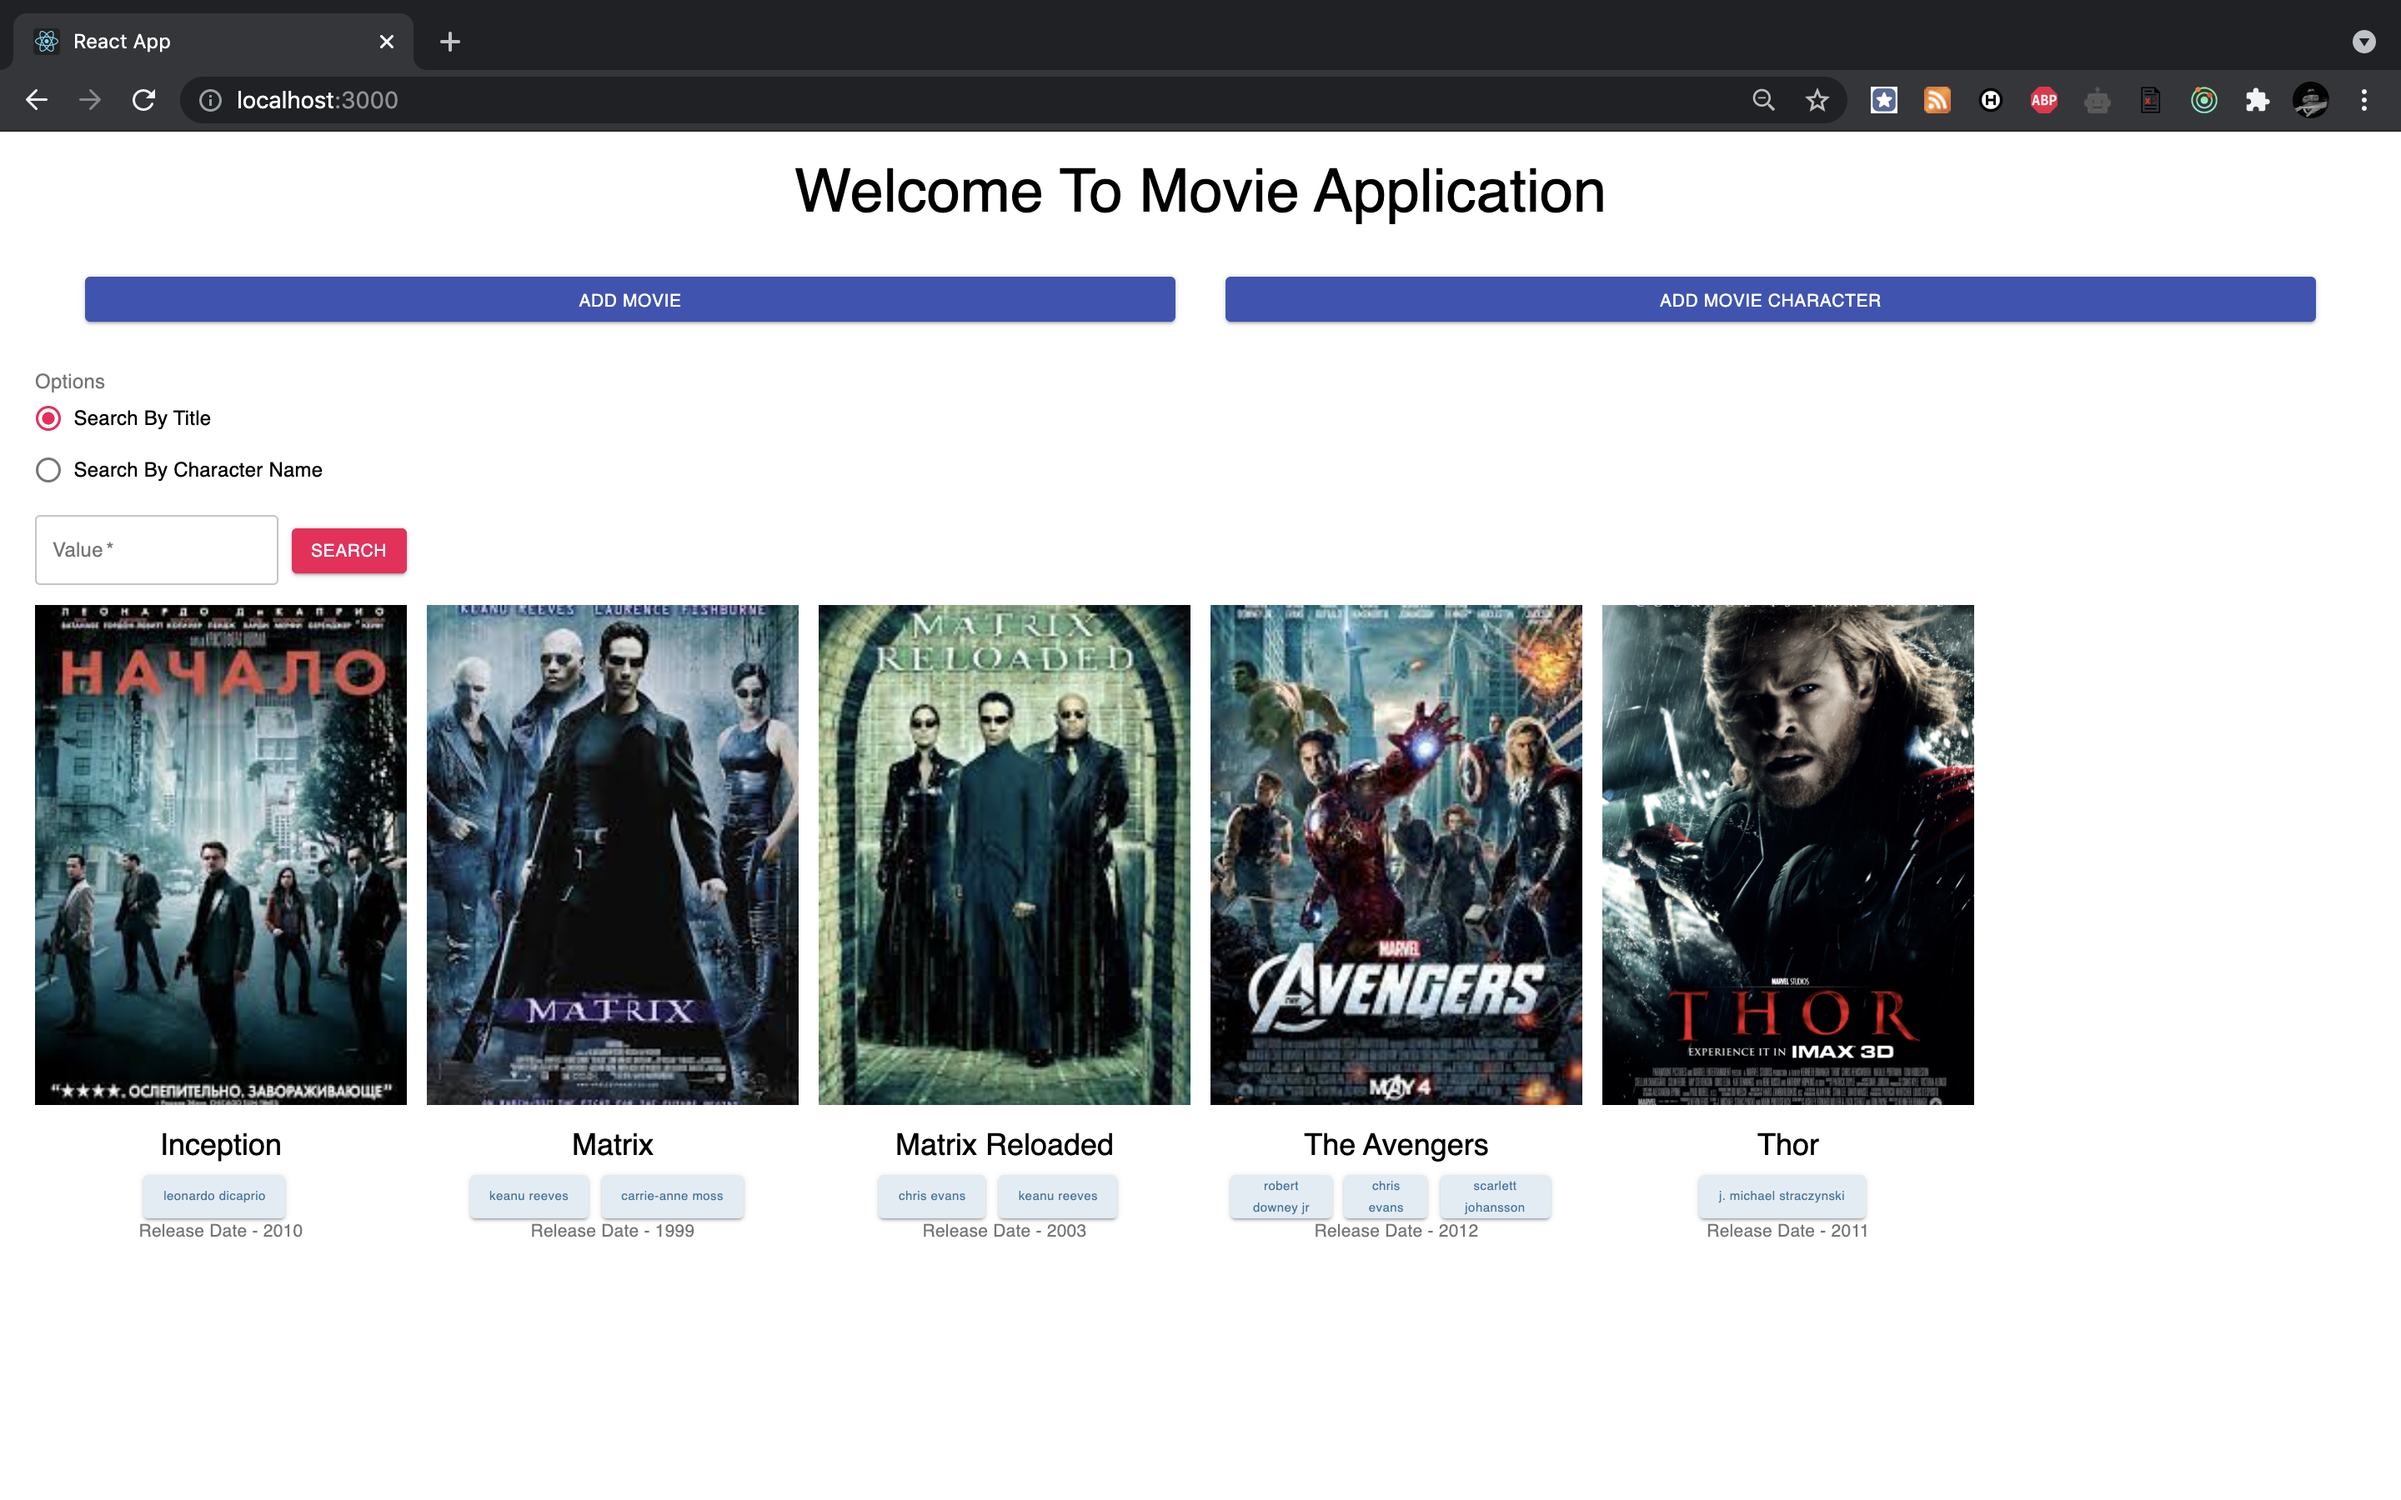
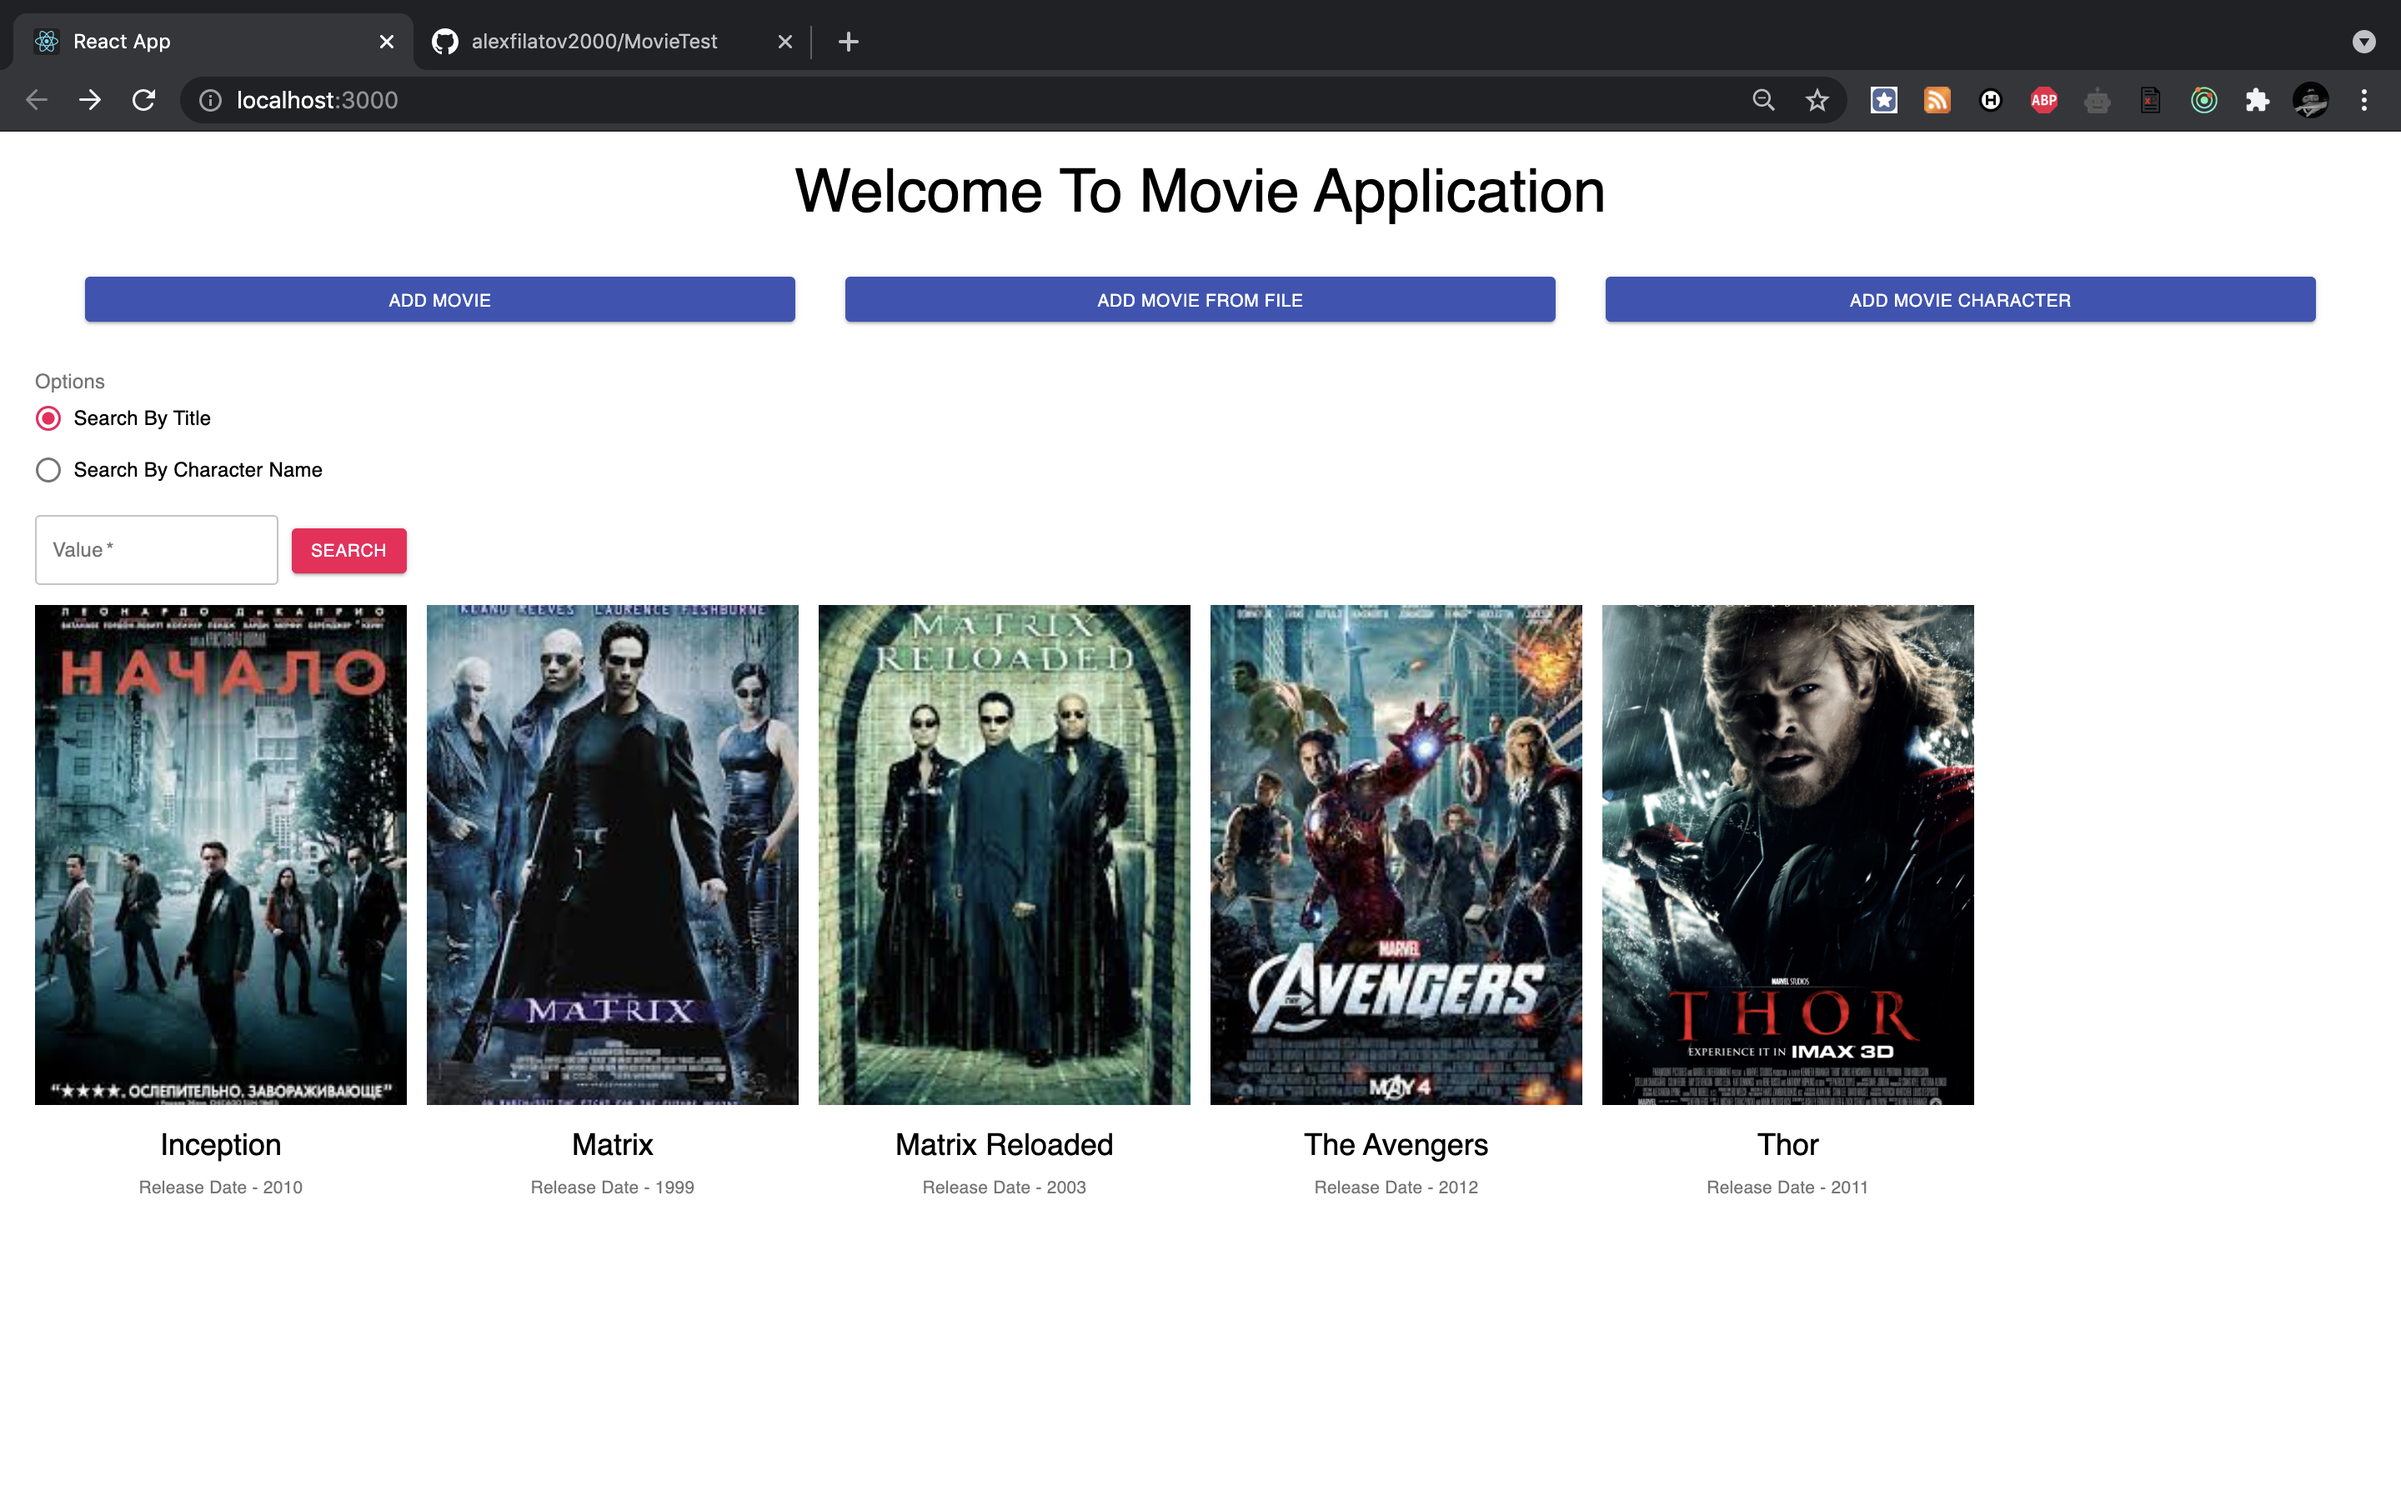
readme fixed

diff --git a/README.md b/README.md
@@ -17,12 +17,14 @@ Simple implementation of movie application.⬇⬇⬇
     - [Koa-multer](https://www.npmjs.com/package/multer)- for uploading images
     - [ESLint](https://eslint.org/)- for good style codding
     - [Prettier](https://prettier.io/)- for good style codding
+    - [Koa-multer](https://www.npmjs.com/package/multer)- for uploading images
 
 ## ☑ TODO
 ##**Movie entity**:<br/>
 
 - [x] GET - /api/movie - get all movies<br/>
-- [x] POST - /api/movies/:id - get specified movie by id<br/>
+- [x] GET - /api/movies/:id - get specified movie by id<br/>
+- [x] POST - /api/movies/txt - add movies by *.txt file, requirement parameters are [upload]<br/>
 - [x] POST - /api/movies - add new movie, requirement parameters are [upload, title, year, type, people]<br/>
 - [x] DELETE - /api/movies/:id - delete movie<br/>
 
